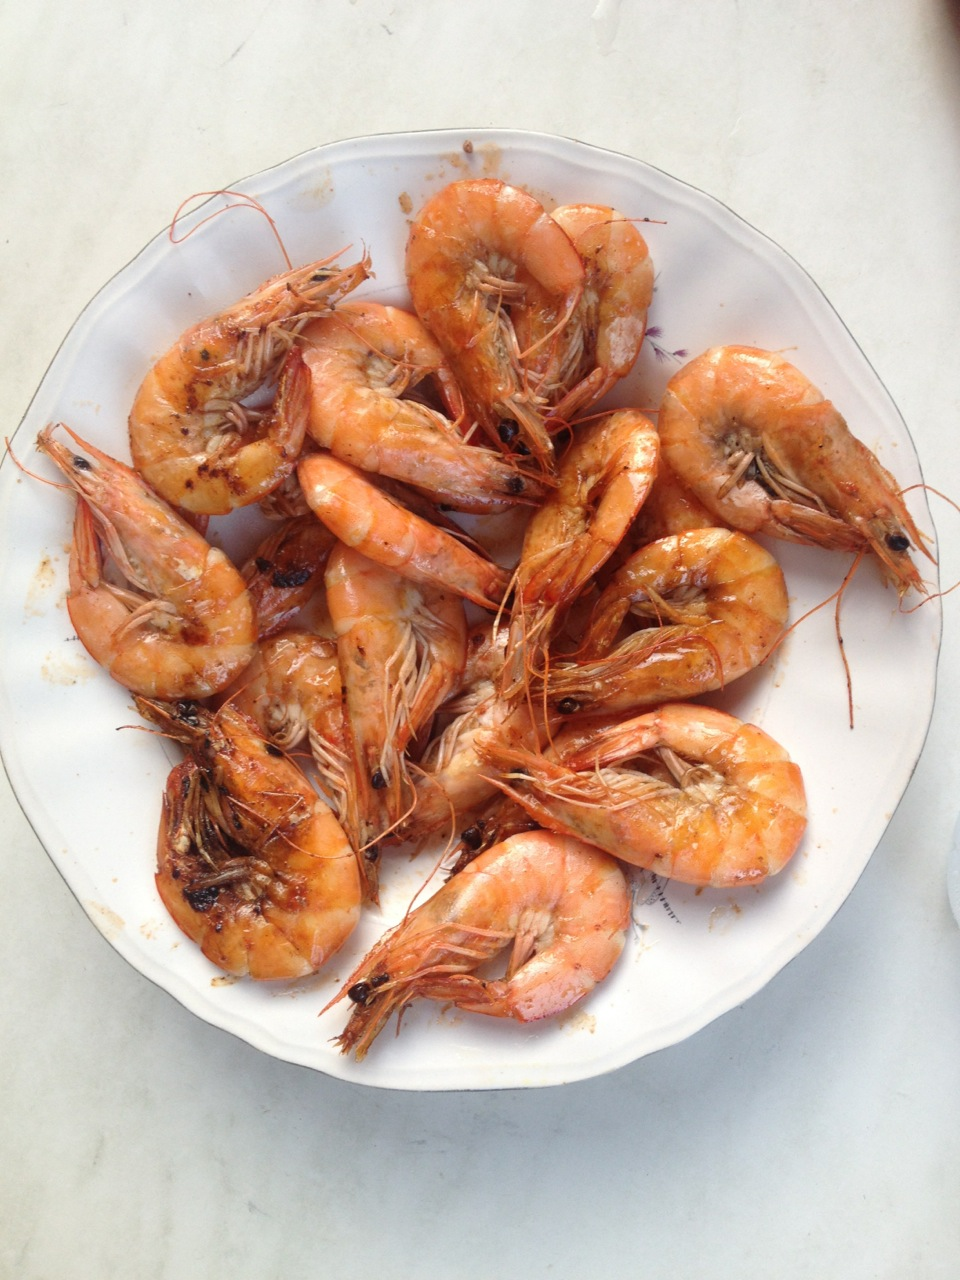
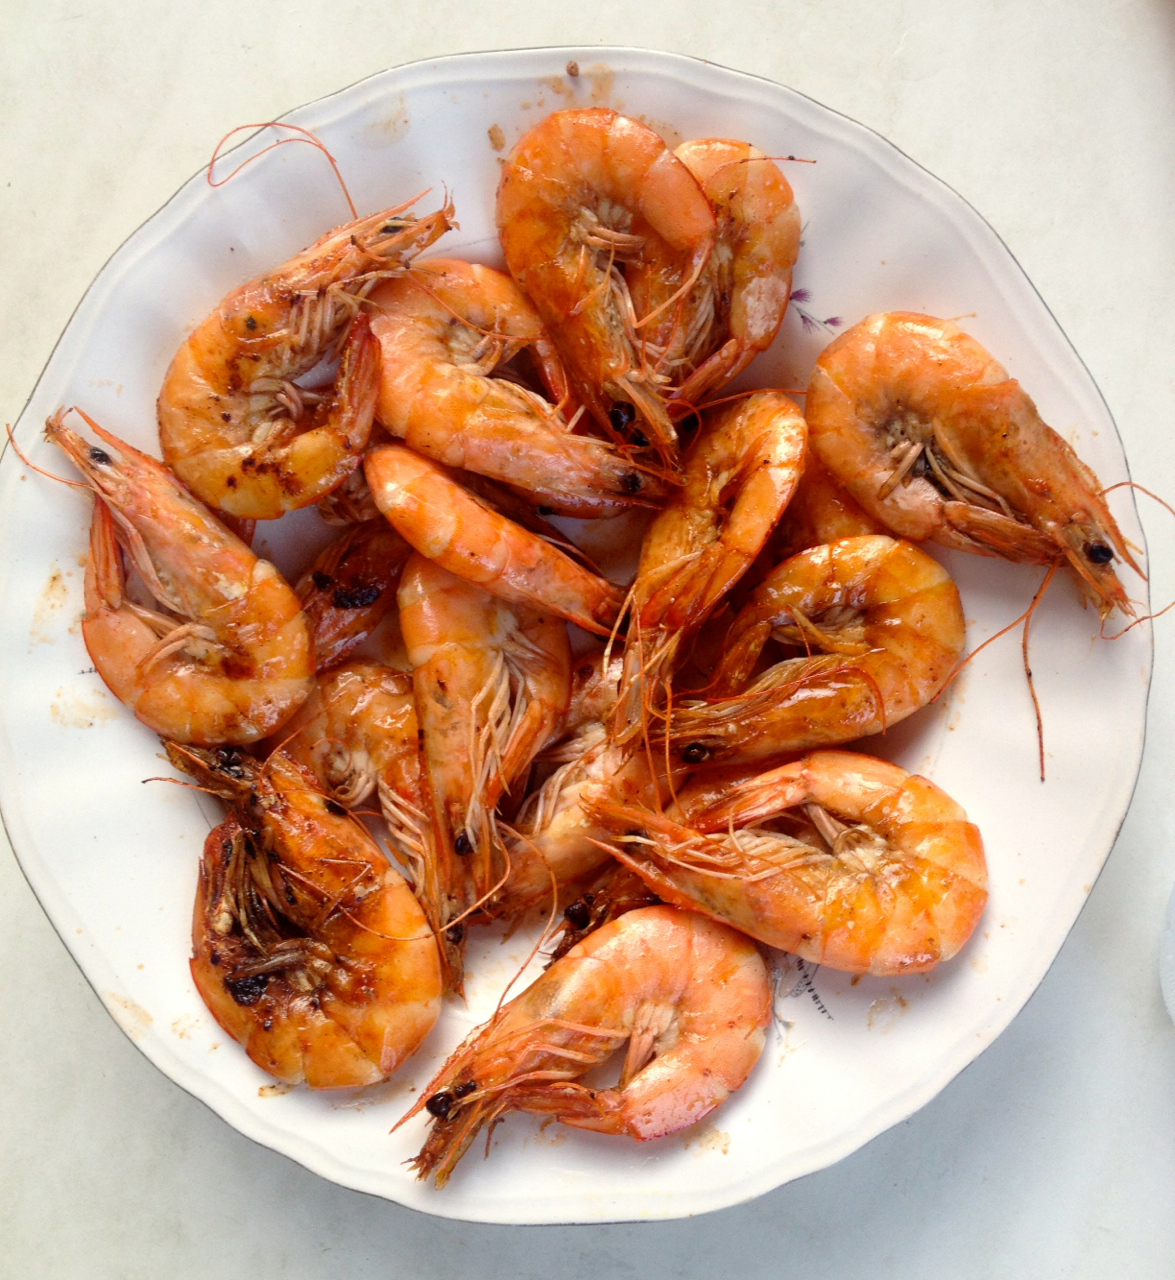
change sample photos

diff --git a/index.html b/index.html
@@ -14,7 +14,7 @@
             <div class="page-header row">
                 <div class="col-md-8">
                     <h1>Sunsets Gallery <small>by Sunsets Vision</small></h1>
-                    <p class="lead">A simple lightbox solution for designing website galleries<br>empowered by Twitter Bootstrap 3.0</p>
+                    <p class="lead">A simple lightbox plugin solution for website galleries<br>empowered by Twitter Bootstrap 3.0</p>
                     <p>
                         <button type="button" class="btn btn-success">Download</button>
                         <button type="button" class="btn btn-default">Implementation</button>
@@ -33,18 +33,18 @@
             </div>
             <div class="well">
                 <ul id="gallery" class="list-inline lightbox">
-                    <li><a href="images/IMG_2120.jpg"><img width="200" class="img-thumbnail" src="images/t/IMG_2120.jpg" alt="Lefkada 2014"></a></li>
-                    <li><a href="images/IMG_2122.jpg"><img width="200" class="img-thumbnail" src="images/t/IMG_2122.jpg" alt="Lefkada 2014"></a></li>
-                    <li><a href="images/IMG_2128.jpg"><img width="200" class="img-thumbnail" src="images/t/IMG_2128.jpg" alt="Lefkada 2014"></a></li>
-                    <li><a href="images/IMG_2133.jpg"><img width="200" class="img-thumbnail" src="images/t/IMG_2133.jpg" alt="Lefkada 2014"></a></li>
-                    <li><a href="images/IMG_2149.jpg"><img width="200" class="img-thumbnail" src="images/t/IMG_2149.jpg" alt="Lefkada 2014"></a></li>
-                    <li><a href="images/IMG_2162.jpg"><img width="200" class="img-thumbnail" src="images/t/IMG_2162.jpg" alt="Lefkada 2014"></a></li>
-                    <li><a href="images/IMG_2163.jpg"><img width="200" class="img-thumbnail" src="images/t/IMG_2163.jpg" alt="Lefkada 2014"></a></li>
-                    <li><a href="images/IMG_2164.jpg"><img width="200" class="img-thumbnail" src="images/t/IMG_2164.jpg" alt="Lefkada 2014"></a></li>
-                    <li><a href="images/IMG_2167.jpg"><img width="200" class="img-thumbnail" src="images/t/IMG_2167.jpg" alt="Lefkada 2014"></a></li>
-                    <li><a href="images/IMG_2225.jpg"><img width="200" class="img-thumbnail" src="images/t/IMG_2225.jpg" alt="Lefkada 2014"></a></li>
-                    <li><a href="images/IMG_2233.jpg"><img width="200" class="img-thumbnail" src="images/t/IMG_2233.jpg" alt="Lefkada 2014"></a></li>
-                    <li><a href="images/IMG_2234.jpg"><img width="200" class="img-thumbnail" src="images/t/IMG_2234.jpg" alt="Lefkada 2014"></a></li>
+                    <li><a href="images/IMG_2119.jpg"><img width="200" class="img-thumbnail" src="images/IMG_2119.jpg" alt="Lefkada 2014"></a></li>
+                    <li><a href="images/IMG_2131.jpg"><img width="200" class="img-thumbnail" src="images/IMG_2131.jpg" alt="Lefkada 2014"></a></li>
+                    <li><a href="images/IMG_2136.jpg"><img width="200" class="img-thumbnail" src="images/IMG_2136.jpg" alt="Lefkada 2014"></a></li>
+                    <li><a href="images/IMG_2138.jpg"><img width="200" class="img-thumbnail" src="images/IMG_2138.jpg" alt="Lefkada 2014"></a></li>
+                    <li><a href="images/IMG_2149.jpg"><img width="200" class="img-thumbnail" src="images/IMG_2149.jpg" alt="Lefkada 2014"></a></li>
+                    <li><a href="images/IMG_2162.jpg"><img width="200" class="img-thumbnail" src="images/IMG_2162.jpg" alt="Lefkada 2014"></a></li>
+                    <li><a href="images/IMG_2163.jpg"><img width="200" class="img-thumbnail" src="images/IMG_2163.jpg" alt="Lefkada 2014"></a></li>
+                    <li><a href="images/IMG_2164.jpg"><img width="200" class="img-thumbnail" src="images/IMG_2164.jpg" alt="Lefkada 2014"></a></li>
+                    <li><a href="images/IMG_2173.jpg"><img width="200" class="img-thumbnail" src="images/IMG_2173.jpg" alt="Lefkada 2014"></a></li>
+                    <li><a href="images/IMG_2225.jpg"><img width="200" class="img-thumbnail" src="images/IMG_2225.jpg" alt="Lefkada 2014"></a></li>
+                    <li><a href="images/IMG_2227.jpg"><img width="200" class="img-thumbnail" src="images/IMG_2227.jpg" alt="Lefkada 2014"></a></li>
+                    <li><a href="images/IMG_2245.jpg"><img width="200" class="img-thumbnail" src="images/IMG_2245.jpg" alt="Lefkada 2014"></a></li>
                 </ul>
             </div>
             <footer class="page-header"><p class="text-right">Copyright © 2014 Sunsets Vision Ltd. All rights reserved.</p></footer>

diff --git a/css/lightbox.scss b/css/lightbox.scss
@@ -14,6 +14,12 @@
     }    
 }
 
+@mixin shadow {
+    -webkit-box-shadow: 0px 0px 21px 0px rgba(50, 50, 50, 0.57);
+    -moz-box-shadow:    0px 0px 21px 0px rgba(50, 50, 50, 0.57);
+    box-shadow:         0px 0px 21px 0px rgba(50, 50, 50, 0.57);    
+}
+
 #overlay {
 
     padding: 5%;
@@ -37,11 +43,12 @@
         .caption {
             margin-top: 1em;
             font-weight: normal;
-            font-size: 1.5em;
+            font-size: 1.2em;
             display: inline-block;
-            padding: 2px 8px;
+            padding: 2px 10px;
             background:white;
             border-radius: 4px; 
+            @include shadow;
         }
 
         .content {
@@ -52,9 +59,7 @@
             max-height: 90%;
             max-width: 100%;
             width: auto;
-            -webkit-box-shadow: 0px 0px 21px 0px rgba(50, 50, 50, 0.57);
-            -moz-box-shadow:    0px 0px 21px 0px rgba(50, 50, 50, 0.57);
-            box-shadow:         0px 0px 21px 0px rgba(50, 50, 50, 0.57);
+            @include shadow;
         }
     
     }

diff --git a/css/lightbox.css b/css/lightbox.css
@@ -29,11 +29,14 @@
     #overlay .lightbox-container .caption {
       margin-top: 1em;
       font-weight: normal;
-      font-size: 1.5em;
+      font-size: 1.2em;
       display: inline-block;
-      padding: 2px 8px;
+      padding: 2px 10px;
       background: white;
-      border-radius: 4px; }
+      border-radius: 4px;
+      -webkit-box-shadow: 0px 0px 21px 0px rgba(50, 50, 50, 0.57);
+      -moz-box-shadow: 0px 0px 21px 0px rgba(50, 50, 50, 0.57);
+      box-shadow: 0px 0px 21px 0px rgba(50, 50, 50, 0.57); }
     #overlay .lightbox-container .content {
       position: relative; }
     #overlay .lightbox-container img {
